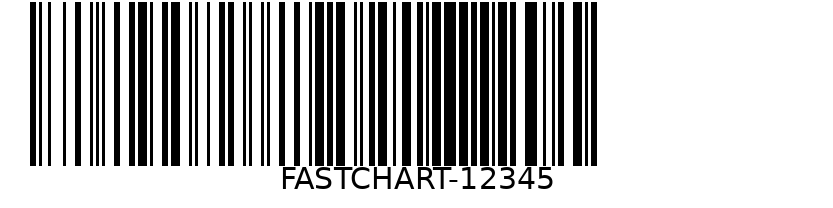
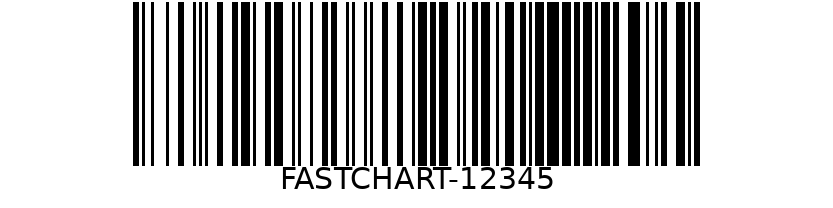
Code128: centre bars on canvas + reorder encoder odd-tail check
Fresh-eyes review of 3e74ea2 caught two issues in fastchart_code128.c.

Centre bars on the canvas. The renderer left-aligned at quiet_px, so
when integer-rounded module_px left slack on the canvas the whole
gap landed on the right edge. For "FASTCHART-12345" at W=400, bars
spanned [10, 198] = 189 px with 201 px of empty bg on the right vs
10 on the left. Switched to (W - bars_px) / 2 so bars sit in the
middle with symmetric quiet zones; user-supplied quiet_zone is
treated as a minimum. Mirrors the QR renderer's centring convention.
The 12345 payload at W=200 now centres at x=21 (was 20), inside
tests/099's [18, 22] tolerance.

Reorder the encoder's subset-B and subset-A digit-run checks so the
odd_tail branch runs before the generic >=6 / tail_run branch. For a
7-digit odd tail like "ABC1234567", the old order let >=6 fire first
and switched to subset C, encoding 3 pairs + CODE_B + a trailing
digit (5 codes for the 7 digits). The new order emits one digit in
the current subset first, leaving an even 6-digit tail that the
tail_run branch then switches to C as 3 clean pairs (4 codes). Saves
one code (11 modules); "ABC1234567" now fits at canvas width 143
instead of 154. Also fixed a misleading comment in the subset A
branch that read "digits 32..63 -> values 0..31" (digits are ASCII
48..57, encoded as values 16..25 in subset A).

Gallery 41a / 41b / 41c regenerated.

diff --git a/fastchart_code128.c b/fastchart_code128.c
@@ -281,27 +281,30 @@ static int code128_encode(const char *data, size_t len,
         }
         else if (subset == 'B') {
             /* Switch to C if we have a long-enough digit run.
-             * Threshold ≥6 mid-stream (saves 3+ codes after paying
-             * the switch cost) or ≥4 if the run is the tail of input.
              *
-             * Odd-tail optimisation: when the tail is ≥5 digits and
-             * odd-length, encode one digit in B then re-enter the
-             * loop. The remaining run is now even and the tail_run
-             * branch above will switch to C. Saves one code (= 11
-             * modules) per shortened encoding; matters because the
-             * auto module_px scales with total bar count. */
+             * Order matters: `odd_tail` must be checked BEFORE the
+             * generic `≥6 || (tail_run && ≥4)` branch. For an odd
+             * digit tail like 7, the generic branch sees ≥6 and
+             * switches to C, which then handles 3 pairs + a single
+             * trailing digit (CODE_B + 1 in B = 2 extra codes for
+             * the tail). The `odd_tail` path emits one digit in B
+             * first, so the remaining 6-digit even tail switches to
+             * C cleanly (CODE_C + 3 pairs). One fewer code (= 11
+             * fewer modules); matters because auto module_px scales
+             * with total bar count. */
             int tail_run = (digits_here >= 2 && (size_t)(i + digits_here) == len &&
                             (digits_here % 2) == 0);
             int odd_tail = (digits_here >= 5 && (size_t)(i + digits_here) == len &&
                             (digits_here % 2) == 1);
-            if (digits_here >= 6 || (tail_run && digits_here >= 4)) {
-                EMIT(C128_CODE_C); subset = 'C';
-                continue;
-            }
             if (odd_tail) {
-                /* Emit one digit in B, fall through to next iteration. */
+                /* Emit one digit in B, let the next iteration's
+                 * tail_run branch switch to C for the even remainder. */
                 EMIT(c - 32);
                 i++;
+                continue;
+            }
+            if (digits_here >= 6 || (tail_run && digits_here >= 4)) {
+                EMIT(C128_CODE_C); subset = 'C';
                 continue;
             }
 
@@ -325,19 +328,24 @@ static int code128_encode(const char *data, size_t len,
             }
         }
         else {  /* subset == 'A' */
+            /* Same odd-tail-before-≥6 ordering as the B branch above;
+             * see comment there. */
             int tail_run = (digits_here >= 2 && (size_t)(i + digits_here) == len &&
                             (digits_here % 2) == 0);
             int odd_tail = (digits_here >= 5 && (size_t)(i + digits_here) == len &&
                             (digits_here % 2) == 1);
-            if (digits_here >= 6 || (tail_run && digits_here >= 4)) {
-                EMIT(C128_CODE_C); subset = 'C';
+            if (odd_tail) {
+                /* Emit one digit in A, then let the next iteration's
+                 * tail_run branch switch to C. Subset A maps ASCII
+                 * 32..95 to values 0..63 (digits '0'..'9' → 16..25),
+                 * so the encoding is identical to subset B for the
+                 * digit characters. */
+                EMIT(c - 32);
+                i++;
                 continue;
             }
-            if (odd_tail) {
-                /* Emit one digit in A, fall through to next iteration
-                 * which will then switch to C for the even tail. */
-                EMIT(c - 32);  /* A: digits 32..63 → values 0..31 */
-                i++;
+            if (digits_here >= 6 || (tail_run && digits_here >= 4)) {
+                EMIT(C128_CODE_C); subset = 'C';
                 continue;
             }
 
@@ -501,8 +509,17 @@ int fastchart_code128_render_to_image(fastchart_code128_obj *self, gdImagePtr im
         (int)(base->fg_rgb & 0xFF));
 
     /* Walk codes, emitting bars. The first width is always a bar;
-     * widths alternate space / bar / space / ... thereafter. */
-    int x = quiet_px;
+     * widths alternate space / bar / space / ... thereafter.
+     *
+     * Centre the bars on the canvas. With integer-rounded module_px,
+     * bars + 2*quiet_px rarely consume the whole canvas; left-aligning
+     * at quiet_px would dump all the slack on the right edge. The
+     * `quiet_px` value is treated as the MINIMUM quiet zone — actual
+     * quiet on each side is at least quiet_px and may be larger when
+     * the canvas has slack from rounding. Mirrors the QR renderer's
+     * centring convention in fastchart_qrcode.c. */
+    int bars_px = total_modules * module_px;
+    int x = (W - bars_px) / 2;
     for (int k = 0; k < n_codes; k++) {
         const uint8_t *pattern;
         int n_widths;
